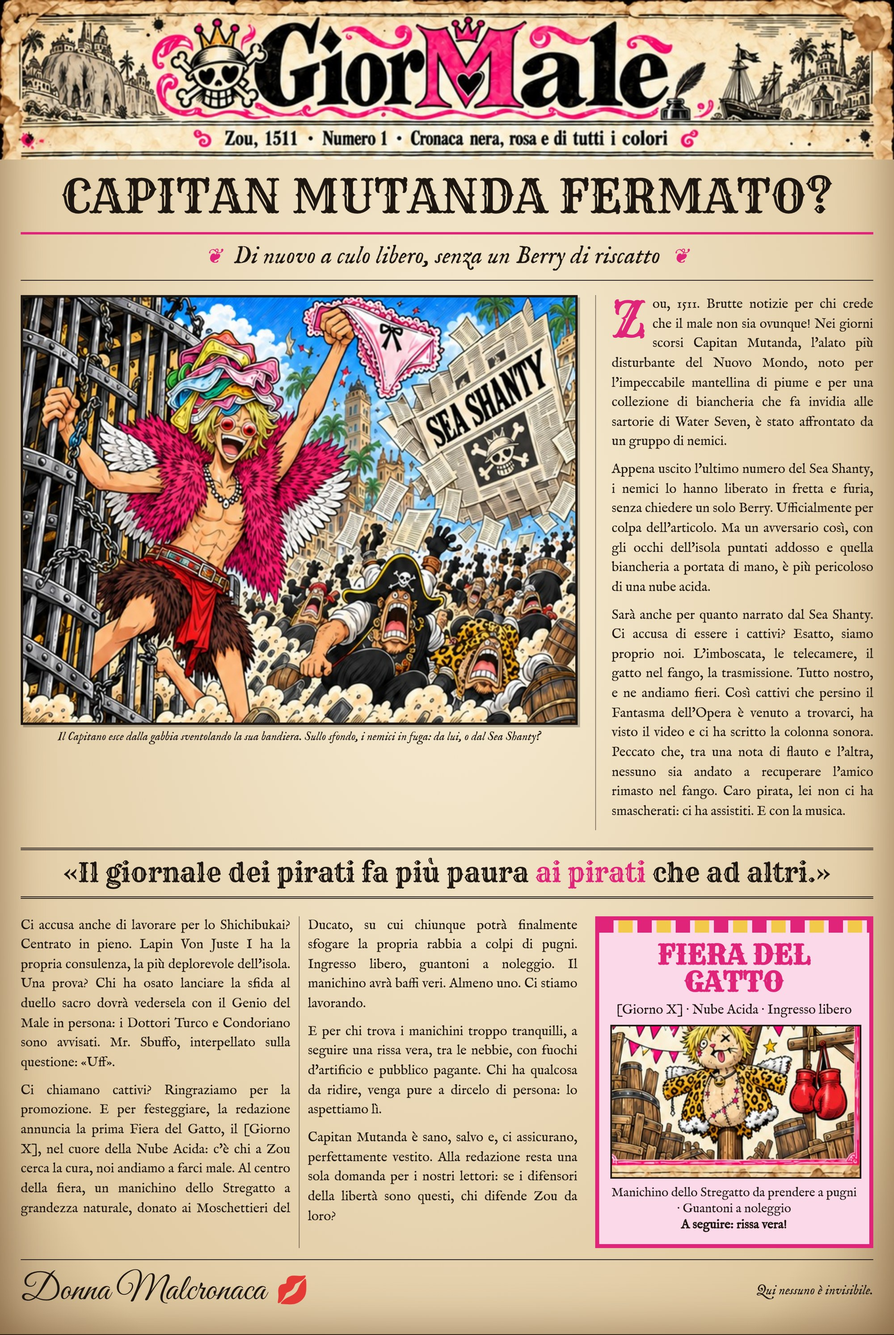
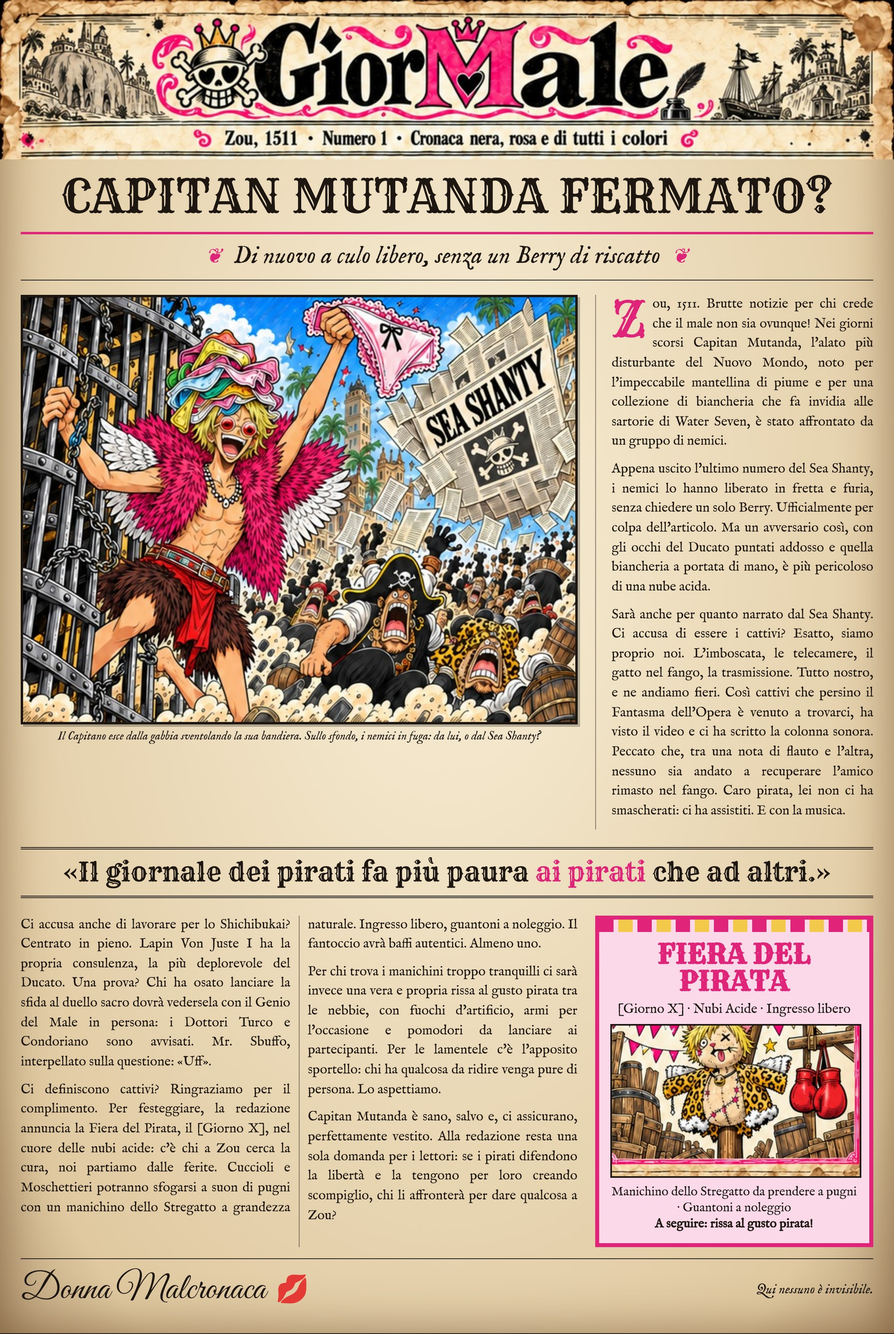
Numero 1: Fiera del Pirata, rissa al gusto pirata, nuova domanda finale
Claude-Session: https://claude.ai/code/session_01XZ8LezdMvFBvtvA8Po38dG

diff --git a/redazione/prima_pagina_n1.html b/redazione/prima_pagina_n1.html
@@ -45,22 +45,22 @@ html,body{margin:0;background:#2a1a12}
   <div><div class="illu"><img src="img/n1_illustrazione.jpg" alt=""></div><div class="didascalia">Il Capitano esce dalla gabbia sventolando la sua bandiera. Sullo sfondo, i nemici in fuga: da lui, o dal Sea Shanty?</div></div>
   <div class="testo colonna">
    <p class="capo">Zou, 1511. Brutte notizie per chi crede che il male non sia ovunque! Nei giorni scorsi Capitan Mutanda, l'alato più disturbante del Nuovo Mondo, noto per l'impeccabile mantellina di piume e per una collezione di biancheria che fa invidia alle sartorie di Water Seven, è stato affrontato da un gruppo di nemici.</p>
-   <p>Appena uscito l'ultimo numero del Sea Shanty, i nemici lo hanno liberato in fretta e furia, senza chiedere un solo Berry. Ufficialmente per colpa dell'articolo. Ma un avversario così, con gli occhi dell'isola puntati addosso e quella biancheria a portata di mano, è più pericoloso di una nube acida.</p>
+   <p>Appena uscito l'ultimo numero del Sea Shanty, i nemici lo hanno liberato in fretta e furia, senza chiedere un solo Berry. Ufficialmente per colpa dell'articolo. Ma un avversario così, con gli occhi del Ducato puntati addosso e quella biancheria a portata di mano, è più pericoloso di una nube acida.</p>
    <p>Sarà anche per quanto narrato dal Sea Shanty. Ci accusa di essere i cattivi? Esatto, siamo proprio noi. L'imboscata, le telecamere, il gatto nel fango, la trasmissione. Tutto nostro, e ne andiamo fieri. Così cattivi che persino il Fantasma dell'Opera è venuto a trovarci, ha visto il video e ci ha scritto la colonna sonora. Peccato che, tra una nota di flauto e l'altra, nessuno sia andato a recuperare l'amico rimasto nel fango. Caro pirata, lei non ci ha smascherati: ci ha assistiti. E con la musica.</p>
   </div>
   <div class="cit">«Il giornale dei pirati fa più paura <span>ai pirati</span> che ad altri.»</div>
   <div class="testo due">
-   <p>Ci accusa anche di lavorare per lo Shichibukai? Centrato in pieno. Lapin Von Juste I ha la propria consulenza, la più deplorevole dell'isola. Una prova? Chi ha osato lanciare la sfida al duello sacro dovrà vedersela con il Genio del Male in persona: i Dottori Turco e Condoriano sono avvisati. Mr. Sbuffo, interpellato sulla questione: «Uff».</p>
-   <p>Ci chiamano cattivi? Ringraziamo per la promozione. E per festeggiare, la redazione annuncia la prima Fiera del Gatto, il [Giorno X], nel cuore della Nube Acida: c'è chi a Zou cerca la cura, noi andiamo a farci male. Al centro della fiera, un manichino dello Stregatto a grandezza naturale, donato ai Moschettieri del Ducato, su cui chiunque potrà finalmente sfogare la propria rabbia a colpi di pugni. Ingresso libero, guantoni a noleggio. Il manichino avrà baffi veri. Almeno uno. Ci stiamo lavorando.</p>
-   <p>E per chi trova i manichini troppo tranquilli, a seguire una rissa vera, tra le nebbie, con fuochi d'artificio e pubblico pagante. Chi ha qualcosa da ridire, venga pure a dircelo di persona: lo aspettiamo lì.</p>
-   <p>Capitan Mutanda è sano, salvo e, ci assicurano, perfettamente vestito. Alla redazione resta una sola domanda per i nostri lettori: se i difensori della libertà sono questi, chi difende Zou da loro?</p>
+   <p>Ci accusa anche di lavorare per lo Shichibukai? Centrato in pieno. Lapin Von Juste I ha la propria consulenza, la più deplorevole del Ducato. Una prova? Chi ha osato lanciare la sfida al duello sacro dovrà vedersela con il Genio del Male in persona: i Dottori Turco e Condoriano sono avvisati. Mr. Sbuffo, interpellato sulla questione: «Uff».</p>
+   <p>Ci definiscono cattivi? Ringraziamo per il complimento. Per festeggiare, la redazione annuncia la Fiera del Pirata, il [Giorno X], nel cuore delle nubi acide: c'è chi a Zou cerca la cura, noi partiamo dalle ferite. Cuccioli e Moschettieri potranno sfogarsi a suon di pugni con un manichino dello Stregatto a grandezza naturale. Ingresso libero, guantoni a noleggio. Il fantoccio avrà baffi autentici. Almeno uno.</p>
+   <p>Per chi trova i manichini troppo tranquilli ci sarà invece una vera e propria rissa al gusto pirata tra le nebbie, con fuochi d'artificio, armi per l'occasione e pomodori da lanciare ai partecipanti. Per le lamentele c'è l'apposito sportello: chi ha qualcosa da ridire venga pure di persona. Lo aspettiamo.</p>
+   <p>Capitan Mutanda è sano, salvo e, ci assicurano, perfettamente vestito. Alla redazione resta una sola domanda per i lettori: se i pirati difendono la libertà e la tengono per loro creando scompiglio, chi li affronterà per dare qualcosa a Zou?</p>
   </div>
   <div class="fiera">
    <div class="bandierine"></div>
-   <h3>Fiera del Gatto</h3>
-   <div class="info">[Giorno X] · Nube Acida · Ingresso libero</div>
+   <h3>Fiera del Pirata</h3>
+   <div class="info">[Giorno X] · Nubi Acide · Ingresso libero</div>
    <img src="img/n1_manichino.jpg" alt="">
-   <div class="fine">Manichino dello Stregatto da prendere a pugni · Guantoni a noleggio<br><b>A seguire: rissa vera!</b></div>
+   <div class="fine">Manichino dello Stregatto da prendere a pugni · Guantoni a noleggio<br><b>A seguire: rissa al gusto pirata!</b></div>
   </div>
  </div>
  <div class="firma"><span class="nome">Donna Malcronaca</span><span class="bacio">💋</span><span class="motto">Qui nessuno è invisibile.</span></div>

diff --git a/build.py b/build.py
@@ -19,7 +19,7 @@ NUMERI = [
    "Capitan Mutanda è sano, salvo e, ci assicurano, perfettamente vestito. Alla redazione resta una sola domanda per i nostri lettori: se i difensori della libertà sono questi, chi difende Zou da loro?",
   ],
   "firma": "Donna Malcronaca",
-  "riquadro": ("Fiera del Gatto", "[Giorno X] · Nube Acida · Ingresso libero, guantoni a noleggio · A seguire: rissa vera!", "img/n1_volantino.jpg"),
+  "riquadro": ("Fiera del Pirata", "[Giorno X] · Nubi Acide · Ingresso libero, guantoni a noleggio · A seguire: rissa al gusto pirata!", "img/n1_volantino.jpg"),
   "galleria": [("img/locandina_gatto_ballata.jpg", "Dall'archivio: «Il Gatto e la Ballata», edizione straordinaria")],
  },
 ]

diff --git a/redazione/numero1_testo.md b/redazione/numero1_testo.md
@@ -1,14 +1,21 @@
 [GiorMale] Capitan Mutanda fermato? — "Di nuovo a culo libero, senza un Berry di riscatto"
 
-Zou, 1511. Brutte notizie per chi crede che il male non sia ovunque! Nei giorni scorsi Capitan Mutanda, l'alato più disturbante del Nuovo Mondo, noto per l'impeccabile mantellina di piume e per una collezione di biancheria che fa invidia alle sartorie di Water Seven, è stato affrontato da un gruppo di nemici. Appena uscito l'ultimo numero del Sea Shanty, i nemici lo hanno liberato in fretta e furia, senza chiedere un solo Berry. Ufficialmente per colpa dell'articolo. Ma un avversario così, con gli occhi dell'isola puntati addosso e quella biancheria a portata di mano, è più pericoloso di una nube acida. Morale della favola: il giornale dei pirati fa più paura ai pirati che ad altri.
+Zou, 1511. Brutte notizie per chi crede che il male non sia ovunque! Nei giorni scorsi Capitan Mutanda, l'alato più disturbante del Nuovo Mondo, noto per l'impeccabile mantellina di piume e per una collezione di biancheria che fa invidia alle sartorie di Water Seven, è stato affrontato da un gruppo di nemici.
+
+Appena uscito l'ultimo numero del Sea Shanty, i nemici lo hanno liberato in fretta e furia, senza chiedere un solo Berry. Ufficialmente per colpa dell'articolo. Ma un avversario così, con gli occhi del Ducato puntati addosso e quella biancheria a portata di mano, è più pericoloso di una nube acida.
 
 Sarà anche per quanto narrato dal Sea Shanty. Ci accusa di essere i cattivi? Esatto, siamo proprio noi. L'imboscata, le telecamere, il gatto nel fango, la trasmissione. Tutto nostro, e ne andiamo fieri. Così cattivi che persino il Fantasma dell'Opera è venuto a trovarci, ha visto il video e ci ha scritto la colonna sonora. Peccato che, tra una nota di flauto e l'altra, nessuno sia andato a recuperare l'amico rimasto nel fango. Caro pirata, lei non ci ha smascherati: ci ha assistiti. E con la musica.
 
-Ci accusa anche di lavorare per lo Shichibukai? Centrato in pieno. Lapin Von Juste I ha la propria consulenza, la più deplorevole dell'isola. Una prova? Chi ha osato lanciare la sfida al duello sacro dovrà vedersela con il Genio del Male in persona: i Dottori Turco e Condoriano sono avvisati. Mr. Sbuffo, interpellato sulla questione: «Uff».
+«Il giornale dei pirati fa più paura ai pirati che ad altri.»
 
-Ci chiamano cattivi? Ringraziamo per la promozione. E per festeggiare, la redazione annuncia la prima Fiera del Gatto, il [Giorno X], nel cuore della Nube Acida: c'è chi a Zou cerca la cura, noi andiamo a farci male. Al centro della fiera, un manichino dello Stregatto a grandezza naturale, donato ai Moschettieri del Ducato, su cui chiunque potrà finalmente sfogare la propria rabbia a colpi di pugni. Ingresso libero, guantoni a noleggio. Il manichino avrà baffi veri. Almeno uno. Ci stiamo lavorando.
-E per chi trova i manichini troppo tranquilli, a seguire una rissa vera, tra le nebbie, con fuochi d'artificio e pubblico pagante. Chi ha qualcosa da ridire, venga pure a dircelo di persona: lo aspettiamo lì.
+Ci accusa anche di lavorare per lo Shichibukai? Centrato in pieno. Lapin Von Juste I ha la propria consulenza, la più deplorevole del Ducato. Una prova? Chi ha osato lanciare la sfida al duello sacro dovrà vedersela con il Genio del Male in persona: i Dottori Turco e Condoriano sono avvisati. Mr. Sbuffo, interpellato sulla questione: «Uff».
 
-Capitan Mutanda è sano, salvo e, ci assicurano, perfettamente vestito. Alla redazione resta una sola domanda per i nostri lettori: se i difensori della libertà sono questi, chi difende Zou da loro?
+Ci definiscono cattivi? Ringraziamo per il complimento. Per festeggiare, la redazione annuncia la Fiera del Pirata, il [Giorno X], nel cuore delle nubi acide: c'è chi a Zou cerca la cura, noi partiamo dalle ferite. Cuccioli e Moschettieri potranno sfogarsi a suon di pugni con un manichino dello Stregatto a grandezza naturale. Ingresso libero, guantoni a noleggio. Il fantoccio avrà baffi autentici. Almeno uno.
 
-— Donna Malcronaca
+Per chi trova i manichini troppo tranquilli ci sarà invece una vera e propria rissa al gusto pirata tra le nebbie, con fuochi d'artificio, armi per l'occasione e pomodori da lanciare ai partecipanti. Per le lamentele c'è l'apposito sportello: chi ha qualcosa da ridire venga pure di persona. Lo aspettiamo.
+
+Capitan Mutanda è sano, salvo e, ci assicurano, perfettamente vestito. Alla redazione resta una sola domanda per i lettori: se i pirati difendono la libertà e la tengono per loro creando scompiglio, chi li affronterà per dare qualcosa a Zou?
+
+Riquadro: FIERA DEL PIRATA · [Giorno X] · Nubi Acide · Ingresso libero · Manichino dello Stregatto da prendere a pugni · Guantoni a noleggio · A seguire: rissa al gusto pirata!
+
+— Donna Malcronaca 💋
